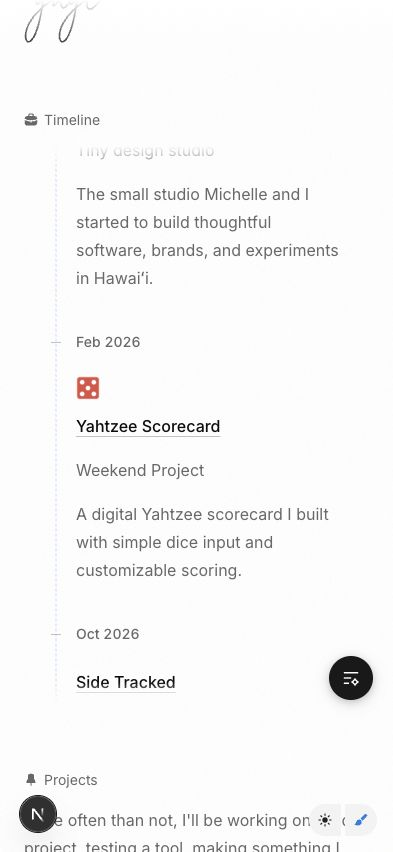
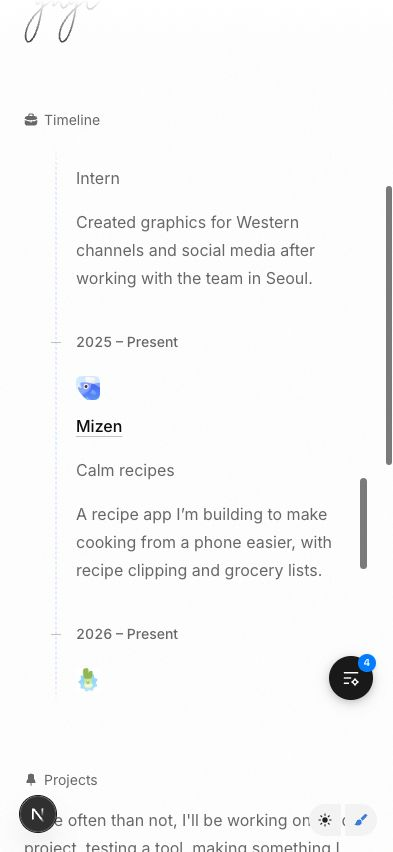
Date Piiku and Mizen timeline entries

diff --git a/lib/portfolio-data.ts b/lib/portfolio-data.ts
@@ -193,7 +193,7 @@ I then started [Negi](https://negi.studio/), a design studio I co-founded with [
     {
       company: "Mizen",
       role: "Calm recipes",
-      period: "Building",
+      period: "2025 – Present",
       url: "https://www.mizen.recipes/",
       icon: faviconUrl("https://www.mizen.recipes/"),
       hoverImage: "/images/mizen-hover.gif",
@@ -202,7 +202,7 @@ I then started [Negi](https://negi.studio/), a design studio I co-founded with [
     {
       company: "Piʻiku",
       role: "Local design community",
-      period: "Ongoing",
+      period: "2024 – Present",
       url: "https://piiku.co/",
       icon: faviconUrl("https://piiku.co/"),
       hoverImage: "/piiku-preview.jpg",
